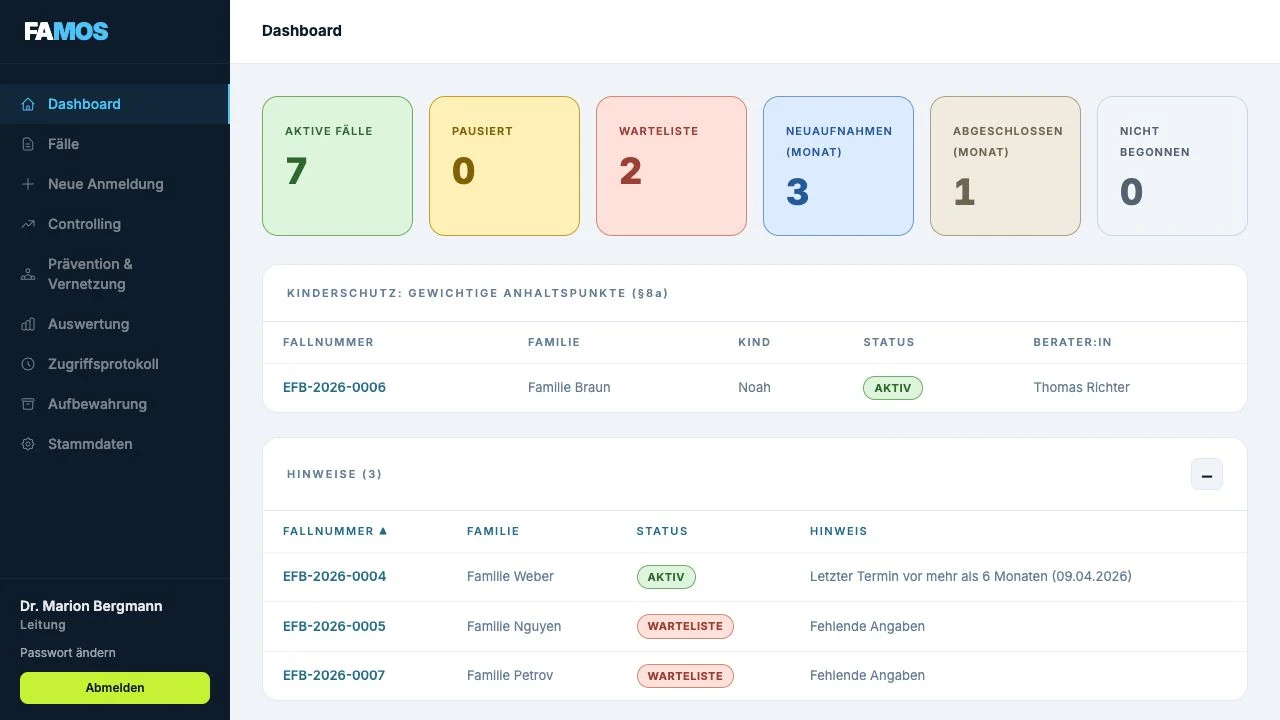
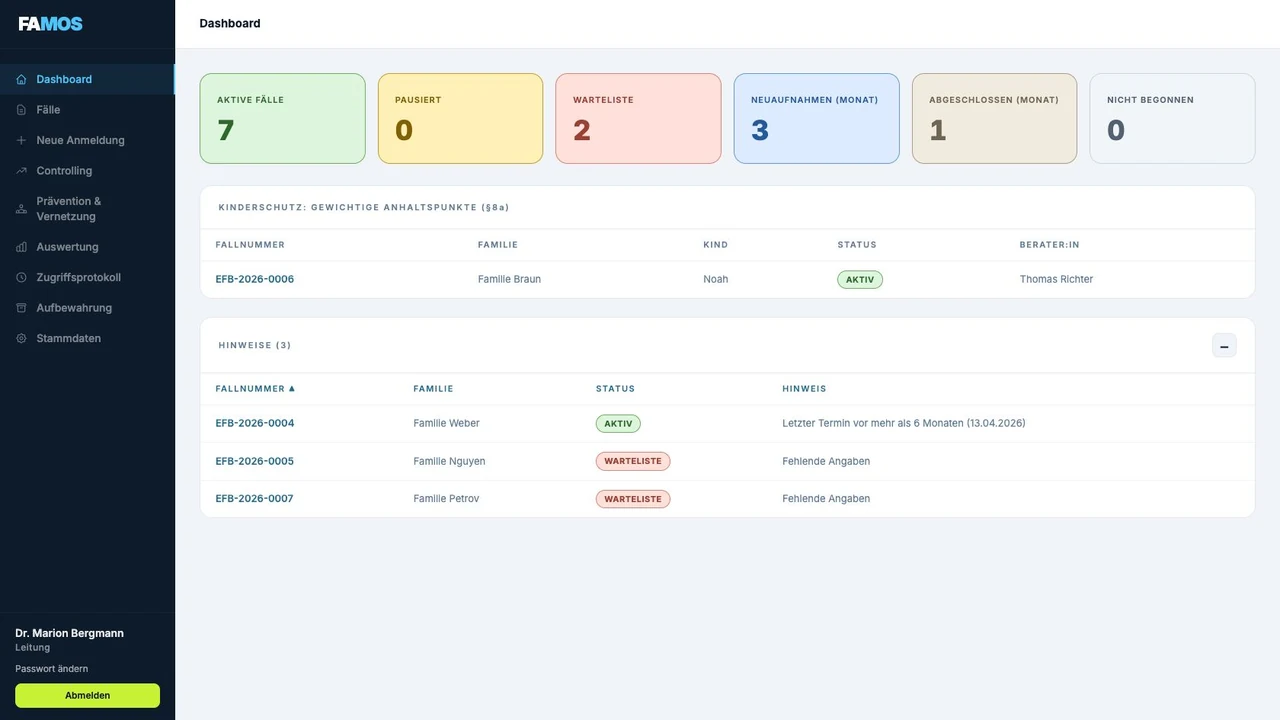
Refresh EFB dashboard screenshot with aligned metrics

diff --git a/famos/index.html b/famos/index.html
@@ -836,7 +836,7 @@ p+p {
 <p class="lede">FAMOS verbindet Dokumentation und Auswertung für Erziehungs-, Familien- und Schwangerschaftskonfliktberatung. Die Anwendungen laufen im Browser, ohne Installation auf Ihren Geräten.</p>
 <div class="actions"><a class="btn btn-primary" href="https://cal.meetergo.com/hello-61/famos" target="_blank" rel="noopener">Produktvorstellung vereinbaren</a></div>
 </div><div class="hero-composition">
-<img src="media/efb-overview.webp" width="1280" height="720" loading="eager" decoding="async" alt="FAMOS-EFB: Dashboard">
+<img src="media/efb-overview.webp?v=6e956bd2" width="1280" height="720" loading="eager" decoding="async" alt="FAMOS-EFB: Dashboard">
 <img src="media/skb-overview.webp" width="1280" height="720" loading="eager" decoding="async" alt="FAMOS-SKB: Terminübersicht">
 </div></div></div></section>
 
@@ -848,7 +848,7 @@ p+p {
 <div class="section-inner"><div class="section-kicker"><span class="index">01 / EFB</span><span class="eyebrow">Erziehungs- und Familienberatung</span></div>
 <div class="split"><div class="copy"><h2 id="title-efb"><span class="sr-only">FAMOS-EFB: </span>Fälle und Aufgaben<br><span class="accent">im Überblick.</span></h2><p class="lede">Teamassistenz, Berater:innen und Leitung erhalten Ansichten und Rechte für ihre Aufgaben.</p><ul class="facts"><li><strong>Fallstatus:</strong> aktive und pausierte Fälle, Warteliste und Neuaufnahmen.</li><li><strong>Hinweise:</strong> fehlende Angaben und lange zurückliegende Kontakte.</li><li><strong>Kinderschutz:</strong> aktueller Stand im Dashboard, dokumentierter Verlauf in der Akte.</li></ul></div>
 <div class="col"><figure class="shot">
-<a class="shot-frame" href="media/efb-overview.webp" target="_blank" rel="noopener" aria-label="EFB-Dashboard mit Fallstatus, Kinderschutzbereich und Hinweisen. Originalbild in neuem Tab öffnen."><img id="image-efb-overview" src="media/efb-overview.webp" width="1280" height="720" loading="lazy" decoding="async" alt="EFB-Dashboard mit Fallstatus, Kinderschutzbereich und Hinweisen"></a>
+<a class="shot-frame" href="media/efb-overview.webp?v=6e956bd2" target="_blank" rel="noopener" aria-label="EFB-Dashboard mit Fallstatus, Kinderschutzbereich und Hinweisen. Originalbild in neuem Tab öffnen."><img id="image-efb-overview" src="media/efb-overview.webp?v=6e956bd2" width="1280" height="720" loading="lazy" decoding="async" alt="EFB-Dashboard mit Fallstatus, Kinderschutzbereich und Hinweisen"></a>
 <figcaption><span>EFB · Dashboard der Leitung</span><button class="zoom-button" type="button" data-zoom aria-expanded="false" aria-controls="image-efb-overview" hidden>Bild vergrößern</button></figcaption></figure></div></div></div></section><section id="efb-anmeldung" class="section product-section efb" data-chapter="efb" aria-labelledby="title-efb-anmeldung"><span id="s6" class="legacy-anchor" aria-hidden="true"></span><span id="s7" class="legacy-anchor" aria-hidden="true"></span>
 <div class="section-inner"><div class="section-kicker"><span class="index">02 / EFB</span><span class="eyebrow">Anmeldung und Zuständigkeit</span></div>
 <div class="split"><div class="copy"><h2 id="title-efb-anmeldung"><span class="sr-only">FAMOS-EFB: </span>Fälle anlegen<br><span class="accent">und zuweisen.</span></h2><p class="lede">Bei der Anmeldung erfassen Sie das Kind und seine Bezugspersonen. Weitere Angaben können Sie später ergänzen.</p><ul class="facts"><li><strong>Fallnummern:</strong> automatisch nach Ihrem Muster oder händisch mit Dublettenprüfung.</li><li><strong>Familiendaten:</strong> Eltern, weitere Kinder und die Situation des Kindes.</li><li><strong>Zuständigkeit:</strong> Fälle zuweisen und die Warteliste bearbeiten.</li></ul></div>

diff --git a/famos/og-image.html b/famos/og-image.html
@@ -42,7 +42,7 @@
   <header><div class="logo">FA<span>MOS</span></div><div class="byline">Software für Ihre Beratungsstelle · volta.codes</div></header>
   <h1>Fallakten, Termine<br>und Berichte.</h1>
   <div class="products">
-    <section><h2>FAMOS-EFB</h2><p>Erziehungs- und Familienberatung</p><img src="media/efb-overview.webp" alt="EFB-Dashboard mit synthetischen Beispieldaten"></section>
+    <section><h2>FAMOS-EFB</h2><p>Erziehungs- und Familienberatung</p><img src="media/efb-overview.webp?v=6e956bd2" alt="EFB-Dashboard mit synthetischen Beispieldaten"></section>
     <section class="skb"><h2>FAMOS-SKB</h2><p>Schwangerschaftskonfliktberatung</p><img src="media/skb-overview.webp" alt="SKB-Terminübersicht mit synthetischen Beispieldaten"></section>
   </div>
   <footer>Synthetische Beispieldaten</footer>

diff --git a/famos/media/README.md b/famos/media/README.md
@@ -3,7 +3,8 @@
 All images in this directory show synthetic example data. They contain no client
 records or production data. Captured on 20 October 2026 and optimized as WebP.
 
-- `efb-*` except `efb-prevention.webp`: local EFB views from revision `6de04f4`,
+- `efb-*` except `efb-prevention.webp` and `efb-overview.webp`: local EFB views
+  from revision `6de04f4`,
   using the repository's synthetic demo fixtures. No case data, settings or
   account permissions were changed during capture.
 - `skb-*` except `skb-report.webp`: SKB templates from revision `e10b070`, rendered with a separate
@@ -27,6 +28,14 @@ Both replacements were captured at 1280 × 720 and converted to WebP. No databas
 account, permission or configuration in the running EFB/SKB instances was changed
 for this refresh. Temporary rendered forms, key rings and databases are removed
 after capture.
+
+## Dashboard layout refresh, 20 October 2026
+
+- `efb-overview.webp`: EFB revision `6de04f4`, rendered from the official local demo
+  fixtures in a fresh disposable SQLite database with separate media and keys.
+  Captured at 1680 × 945 and downsampled to 1280 × 720 WebP. All six metric labels
+  fit on one line and all metric values share the same vertical position.
+  The running EFB instance, accounts, settings and source were unchanged.
 
 The website uses ten product screenshots. The desktop hero reuses
 `efb-overview.webp` and `skb-overview.webp` in a non-interactive composition; no
